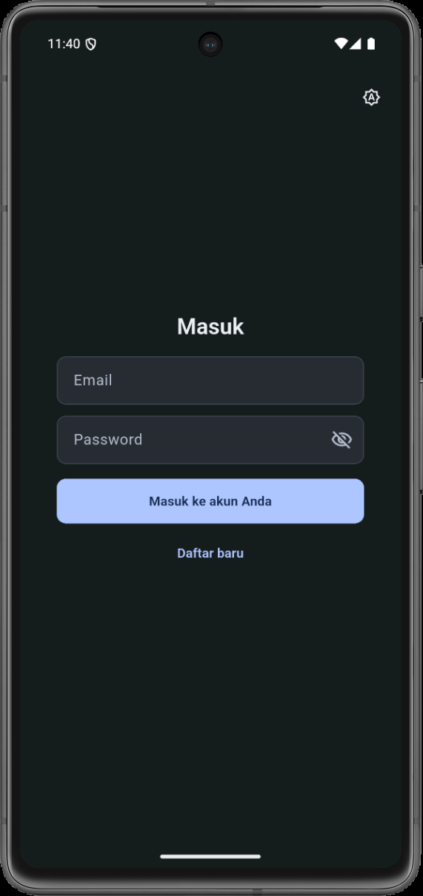
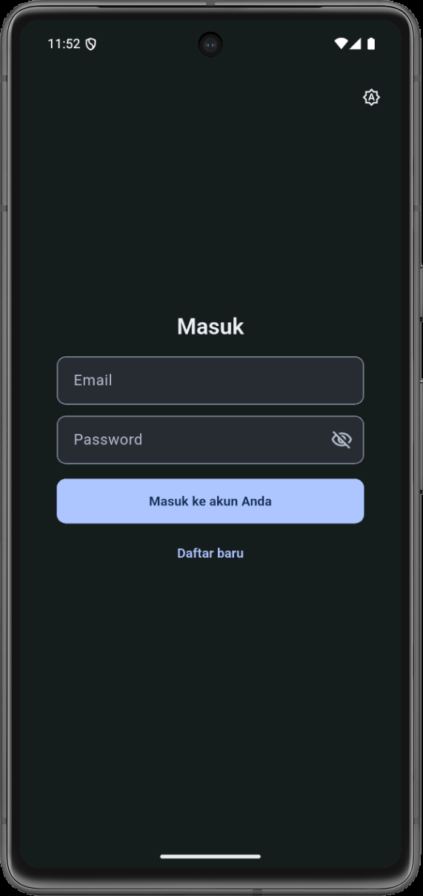
fix: meet contrast and touch-target requirements in the shared theme
Use the stronger outline role for input boundaries and keep app-bar theme and account controls at 48 dp. Add WCAG contrast tests for text, status, and control boundaries in both themes, a real app-bar target test, and theme failure-path tests. Refresh the documentation screenshots and verified test counts.

Changed region(s): [[0.1537, 0.4375, 0.8605, 0.4688], [0.1537, 0.0312, 0.1844, 0.0625]]

diff --git a/test/global_dashboard_test.dart b/test/global_dashboard_test.dart
@@ -1,10 +1,14 @@
 import 'dart:convert';
 
 import 'package:flutter/material.dart';
+import 'package:flutter/services.dart';
 import 'package:flutter_test/flutter_test.dart';
 import 'package:http/http.dart' as http;
 import 'package:http/testing.dart';
 import 'package:shared_preferences/shared_preferences.dart';
+// The platform store allows simulating failed preference reads and writes.
+// ignore: depend_on_referenced_packages
+import 'package:shared_preferences_platform_interface/shared_preferences_platform_interface.dart';
 
 import 'package:my_mobile_app/Dashboard/dashboard_service.dart';
 import 'package:my_mobile_app/Home/home_page.dart';
@@ -15,6 +19,7 @@ import 'package:my_mobile_app/System Login/login_page.dart';
 import 'package:my_mobile_app/System Login/register_page.dart';
 import 'package:my_mobile_app/ui/Theme/theme_notifier.dart';
 import 'package:my_mobile_app/ui/Theme/theme_tonggle.dart';
+import 'package:my_mobile_app/Home/navbar_page.dart';
 import 'package:my_mobile_app/ui/Theme/app_theme.dart';
 
 const _base = 'http://43.173.10.180:3030';
@@ -35,6 +40,29 @@ http.Response _boards() => _json({
   ],
   'meta': {'page': 1, 'limit': 10, 'total': 1, 'total_pages': 1},
 });
+
+class _ThemeStore extends InMemorySharedPreferencesStore {
+  _ThemeStore(super.data) : super.withData();
+
+  bool failThemeWrite = false;
+  bool failRead = false;
+  int themeWrites = 0;
+
+  @override
+  Future<Map<String, Object>> getAll() async {
+    if (failRead) throw StateError('preferences unreadable');
+    return super.getAll();
+  }
+
+  @override
+  Future<bool> setValue(String valueType, String key, Object value) {
+    if (key.endsWith('APP_THEME_MODE')) {
+      themeWrites++;
+      if (failThemeWrite) return Future.value(false);
+    }
+    return super.setValue(valueType, key, value);
+  }
+}
 
 void main() {
   late List<http.Request> requests;
@@ -79,6 +107,22 @@ void main() {
       (await SharedPreferences.getInstance()).getString('APP_THEME_MODE'),
       'dark',
     );
+  });
+
+  testWidgets('navbar keeps theme and account controls at least 48dp', (
+    tester,
+  ) async {
+    await tester.pumpWidget(
+      const MaterialApp(home: Scaffold(appBar: Navbar())),
+    );
+    await tester.pumpAndSettle();
+
+    for (final tooltip in ['Pilih tema', 'Akun dan keluar']) {
+      final size = tester.getSize(find.byTooltip(tooltip));
+      expect(size.width, greaterThanOrEqualTo(48), reason: '$tooltip width');
+      expect(size.height, greaterThanOrEqualTo(48), reason: '$tooltip height');
+    }
+    expect(tester.takeException(), isNull);
   });
 
   test(
@@ -158,6 +202,109 @@ void main() {
     tester.platformDispatcher.platformBrightnessTestValue = Brightness.light;
     await tester.pumpAndSettle();
     expect(find.text('dark'), findsOneWidget);
+  });
+  testWidgets(
+    'failed theme save keeps new mode in memory, warns, and keeps old saved choice',
+    (tester) async {
+      SharedPreferences.setMockInitialValues({'APP_THEME_MODE': 'light'});
+      final store = _ThemeStore({'flutter.APP_THEME_MODE': 'light'})
+        ..failThemeWrite = true;
+      SharedPreferencesStorePlatform.instance = store;
+      ThemeNotifier.themeMode.value = ThemeMode.light;
+
+      await tester.pumpWidget(
+        const MaterialApp(
+          home: Scaffold(body: Center(child: ThemeToggle())),
+        ),
+      );
+      await tester.tap(find.byTooltip('Pilih tema'));
+      await tester.pumpAndSettle();
+      await tester.tap(find.text('Gelap'));
+      await tester.pumpAndSettle();
+
+      expect(ThemeNotifier.themeMode.value, ThemeMode.dark);
+      expect(
+        find.textContaining('Tema berubah, tetapi gagal disimpan'),
+        findsOneWidget,
+      );
+      expect((await store.getAll())['flutter.APP_THEME_MODE'], 'light');
+    },
+  );
+
+  test('unreadable preference store falls back to System', () async {
+    SharedPreferences.setMockInitialValues({});
+    SharedPreferencesStorePlatform.instance = _ThemeStore({})..failRead = true;
+    ThemeNotifier.themeMode.value = ThemeMode.dark;
+
+    await ThemeNotifier.initialize();
+
+    expect(ThemeNotifier.themeMode.value, ThemeMode.system);
+  });
+
+  testWidgets('OS brightness changes do not write theme preferences', (
+    tester,
+  ) async {
+    SharedPreferences.setMockInitialValues({});
+    final store = _ThemeStore({});
+    SharedPreferencesStorePlatform.instance = store;
+    tester.platformDispatcher.platformBrightnessTestValue = Brightness.light;
+    addTearDown(tester.platformDispatcher.clearPlatformBrightnessTestValue);
+    await ThemeNotifier.initialize();
+    expect(ThemeNotifier.themeMode.value, ThemeMode.system);
+    store.themeWrites = 0;
+
+    await tester.pumpWidget(
+      ValueListenableBuilder<ThemeMode>(
+        valueListenable: ThemeNotifier.themeMode,
+        builder: (context, mode, child) => MaterialApp(
+          theme: AppTheme.light,
+          darkTheme: AppTheme.dark,
+          themeMode: mode,
+          home: Builder(
+            builder: (context) => Text(Theme.of(context).brightness.name),
+          ),
+        ),
+      ),
+    );
+    expect(find.text('light'), findsOneWidget);
+    tester.platformDispatcher.platformBrightnessTestValue = Brightness.dark;
+    await tester.pumpAndSettle();
+    expect(find.text('dark'), findsOneWidget);
+    tester.platformDispatcher.platformBrightnessTestValue = Brightness.light;
+    await tester.pumpAndSettle();
+    expect(find.text('light'), findsOneWidget);
+
+    expect(store.themeWrites, 0);
+    expect(
+      (await store.getAll()).containsKey('flutter.APP_THEME_MODE'),
+      isFalse,
+    );
+  });
+
+  testWidgets('theme chooser opens and selects with the keyboard', (
+    tester,
+  ) async {
+    SharedPreferences.setMockInitialValues({});
+    ThemeNotifier.themeMode.value = ThemeMode.system;
+    await tester.pumpWidget(
+      const MaterialApp(
+        home: Scaffold(body: Center(child: ThemeToggle())),
+      ),
+    );
+
+    await tester.sendKeyEvent(LogicalKeyboardKey.tab);
+    await tester.pump();
+    await tester.sendKeyEvent(LogicalKeyboardKey.enter);
+    await tester.pumpAndSettle();
+    expect(find.text('Tampilan'), findsOneWidget);
+
+    await tester.sendKeyEvent(LogicalKeyboardKey.tab);
+    await tester.pump();
+    await tester.sendKeyEvent(LogicalKeyboardKey.arrowDown);
+    await tester.pumpAndSettle();
+
+    expect(find.text('Tampilan'), findsNothing);
+    expect(ThemeNotifier.themeMode.value, ThemeMode.light);
   });
   test('dashboard service parses raw workload array only', () async {
     Network.client = MockClient((request) async {

diff --git a/test/theme_contrast_test.dart b/test/theme_contrast_test.dart
@@ -1,0 +1,104 @@
+import 'package:flutter/material.dart';
+import 'package:flutter_test/flutter_test.dart';
+
+import 'package:my_mobile_app/ui/Theme/app_theme.dart';
+
+double _contrast(Color a, Color b) {
+  final first = a.computeLuminance();
+  final second = b.computeLuminance();
+  final lighter = first > second ? first : second;
+  final darker = first > second ? second : first;
+  return (lighter + 0.05) / (darker + 0.05);
+}
+
+void main() {
+  for (final entry in {
+    'light': AppTheme.light,
+    'dark': AppTheme.dark,
+  }.entries) {
+    final theme = entry.value;
+    final scheme = theme.colorScheme;
+    final status = theme.extension<AppStatusColors>()!;
+    final surfaces = {
+      'scaffold': theme.scaffoldBackgroundColor,
+      'surface': scheme.surface,
+      'surfaceContainerLow': scheme.surfaceContainerLow,
+      'surfaceContainerHigh': scheme.surfaceContainerHigh,
+    };
+
+    group('${entry.key} theme contrast', () {
+      test('body text meets 4.5:1 on every surface', () {
+        for (final surface in surfaces.entries) {
+          expect(
+            _contrast(scheme.onSurface, surface.value),
+            greaterThanOrEqualTo(4.5),
+            reason: 'onSurface on ${surface.key}',
+          );
+          expect(
+            _contrast(scheme.onSurfaceVariant, surface.value),
+            greaterThanOrEqualTo(4.5),
+            reason: 'onSurfaceVariant on ${surface.key}',
+          );
+          expect(
+            _contrast(scheme.primary, surface.value),
+            greaterThanOrEqualTo(4.5),
+            reason: 'primary text on ${surface.key}',
+          );
+          expect(
+            _contrast(scheme.error, surface.value),
+            greaterThanOrEqualTo(4.5),
+            reason: 'error text on ${surface.key}',
+          );
+        }
+      });
+
+      test('filled controls and containers meet 4.5:1', () {
+        final pairs = {
+          'onPrimary on primary': (scheme.onPrimary, scheme.primary),
+          'onPrimaryContainer on primaryContainer': (
+            scheme.onPrimaryContainer,
+            scheme.primaryContainer,
+          ),
+          'onError on error': (scheme.onError, scheme.error),
+          'onErrorContainer on errorContainer': (
+            scheme.onErrorContainer,
+            scheme.errorContainer,
+          ),
+          'success': (status.onSuccessContainer, status.successContainer),
+          'warning': (status.onWarningContainer, status.warningContainer),
+          'info': (status.onInfoContainer, status.infoContainer),
+        };
+        for (final pair in pairs.entries) {
+          expect(
+            _contrast(pair.value.$1, pair.value.$2),
+            greaterThanOrEqualTo(4.5),
+            reason: pair.key,
+          );
+        }
+      });
+
+      test('control boundaries and focus ring meet 3:1', () {
+        final decoration = theme.inputDecorationTheme;
+        final fill = decoration.fillColor!;
+        final borders = {
+          'enabled': decoration.enabledBorder as OutlineInputBorder,
+          'focused': decoration.focusedBorder as OutlineInputBorder,
+          'error': decoration.errorBorder as OutlineInputBorder,
+        };
+        for (final border in borders.entries) {
+          for (final surface in [
+            fill,
+            scheme.surface,
+            scheme.surfaceContainerHigh,
+          ]) {
+            expect(
+              _contrast(border.value.borderSide.color, surface),
+              greaterThanOrEqualTo(3),
+              reason: '${border.key} border on $surface',
+            );
+          }
+        }
+      });
+    });
+  }
+}

diff --git a/lib/Home/navbar_page.dart b/lib/Home/navbar_page.dart
@@ -50,7 +50,7 @@ class _NavbarState extends State<Navbar> {
       ),
       child: SafeArea(
         child: Padding(
-          padding: const EdgeInsets.symmetric(horizontal: 12.0, vertical: 8.0),
+          padding: const EdgeInsets.symmetric(horizontal: 12.0, vertical: 3.0),
           child: Row(
             mainAxisAlignment: MainAxisAlignment.spaceBetween,
             children: [
@@ -96,6 +96,10 @@ class _NavbarState extends State<Navbar> {
 
                   PopupMenuButton<String>(
                     tooltip: 'Akun dan keluar',
+                    style: IconButton.styleFrom(
+                      minimumSize: const Size.square(48),
+                      padding: EdgeInsets.zero,
+                    ),
                     icon: Icon(
                       Icons.account_circle,
                       size: 28,

diff --git a/lib/ui/Theme/app_theme.dart b/lib/ui/Theme/app_theme.dart
@@ -213,11 +213,11 @@ class AppTheme {
       contentPadding: const EdgeInsets.symmetric(horizontal: 16, vertical: 14),
       border: OutlineInputBorder(
         borderRadius: BorderRadius.circular(10),
-        borderSide: BorderSide(color: scheme.outlineVariant),
+        borderSide: BorderSide(color: scheme.outline),
       ),
       enabledBorder: OutlineInputBorder(
         borderRadius: BorderRadius.circular(10),
-        borderSide: BorderSide(color: scheme.outlineVariant),
+        borderSide: BorderSide(color: scheme.outline),
       ),
       focusedBorder: OutlineInputBorder(
         borderRadius: BorderRadius.circular(10),

diff --git a/README.md b/README.md
@@ -58,12 +58,12 @@ flutter build apk --debug --no-pub
 
 The debug APK is written to `build\app\outputs\flutter-apk\app-debug.apk`. Gradle prints a restricted `System.load` warning that does not affect the build.
 
-Last verified on 2026-11-07 (Windows, Flutter debug build, Android 15 emulator against the QA backend):
+Last verified on 2026-11-08 (Windows, Flutter debug build, Android 15 emulator against the QA backend):
 
 - `flutter analyze --no-pub`: no issues.
-- `flutter test --no-pub`: 176 tests passed.
+- `flutter test --no-pub`: 187 tests passed.
 - `flutter build apk --debug --no-pub`: succeeded.
-- All ten scenarios in [MANUAL_TESTING.md](MANUAL_TESTING.md) were run on the emulator against QA with disposable data, which was then deleted.
+- All ten scenarios in [MANUAL_TESTING.md](MANUAL_TESTING.md) were run on the emulator against QA with disposable data on 2026-11-07, then the data was deleted. Later input-border and app-bar sizing changes were checked on the emulator by screenshots and by measuring the 48 dp controls; the ten scenarios were not repeated in full.
 
 Test suites cover authentication and validation, environment isolation and sessions, projects, Kanban boards, tasks, members and summaries, global analytics, themes, and compact layouts. See [AGENTS.md](AGENTS.md) for the file map.
 

diff --git a/docs/PORTFOLIO.md b/docs/PORTFOLIO.md
@@ -49,9 +49,9 @@ The interface follows a minimalist productivity direction on Material 3:
 Run on 2026-11-07:
 
 - `flutter analyze --no-pub`: no issues.
-- `flutter test --no-pub`: 176 tests passed.
+- `flutter test --no-pub`: 187 tests passed.
 - `flutter build apk --debug --no-pub`: succeeded.
-- Ten manual scenarios (registration, session, projects, Kanban, tasks, moves including drag and drop, members and assignees, summary and analytics, themes and large text, cleanup) were run on an Android 15 emulator against the QA backend with disposable data.
+- Ten manual scenarios (registration, session, projects, Kanban, tasks, moves including drag and drop, members and assignees, summary and analytics, themes and large text, cleanup) were run on an Android 15 emulator against the QA backend with disposable data on 2026-11-07. Later input-border and app-bar sizing changes were checked on the emulator by screenshots and measurement, not by repeating every scenario.
 
 ## Limitations
 

diff --git a/docs/DEMO_GUIDE.md b/docs/DEMO_GUIDE.md
@@ -74,7 +74,7 @@ Belum. Backend belum punya fitur mengurutkan; tugas yang dipindah selalu masuk d
 Backend menghitung penugasan dari semua proyek dan mengelompokkan berdasarkan nama. Aplikasi menampilkan apa adanya dan menuliskan cakupan itu di layar.
 
 **Bagaimana kualitas aplikasi diuji?**
-Pada 2026-11-07: analisis kode tanpa temuan, 176 tes otomatis lulus, build APK debug berhasil, dan sepuluh skenario di `MANUAL_TESTING.md` dijalankan di emulator Android dengan backend QA.
+Pada 2026-11-08: analisis kode tanpa temuan, 187 tes otomatis lulus, dan build APK debug berhasil. Sepuluh skenario di `MANUAL_TESTING.md` dijalankan di emulator Android dengan backend QA pada 2026-11-07; perubahan kecil setelahnya (batas input dan ukuran tombol bilah atas) dicek lewat tangkapan layar dan pengukuran, bukan diulang penuh.
 
 **Apa yang belum ada?**
 Komentar, label, lampiran, daftar periksa, pengurutan, dan penghapusan akun. Build rilis belum ditandatangani.
